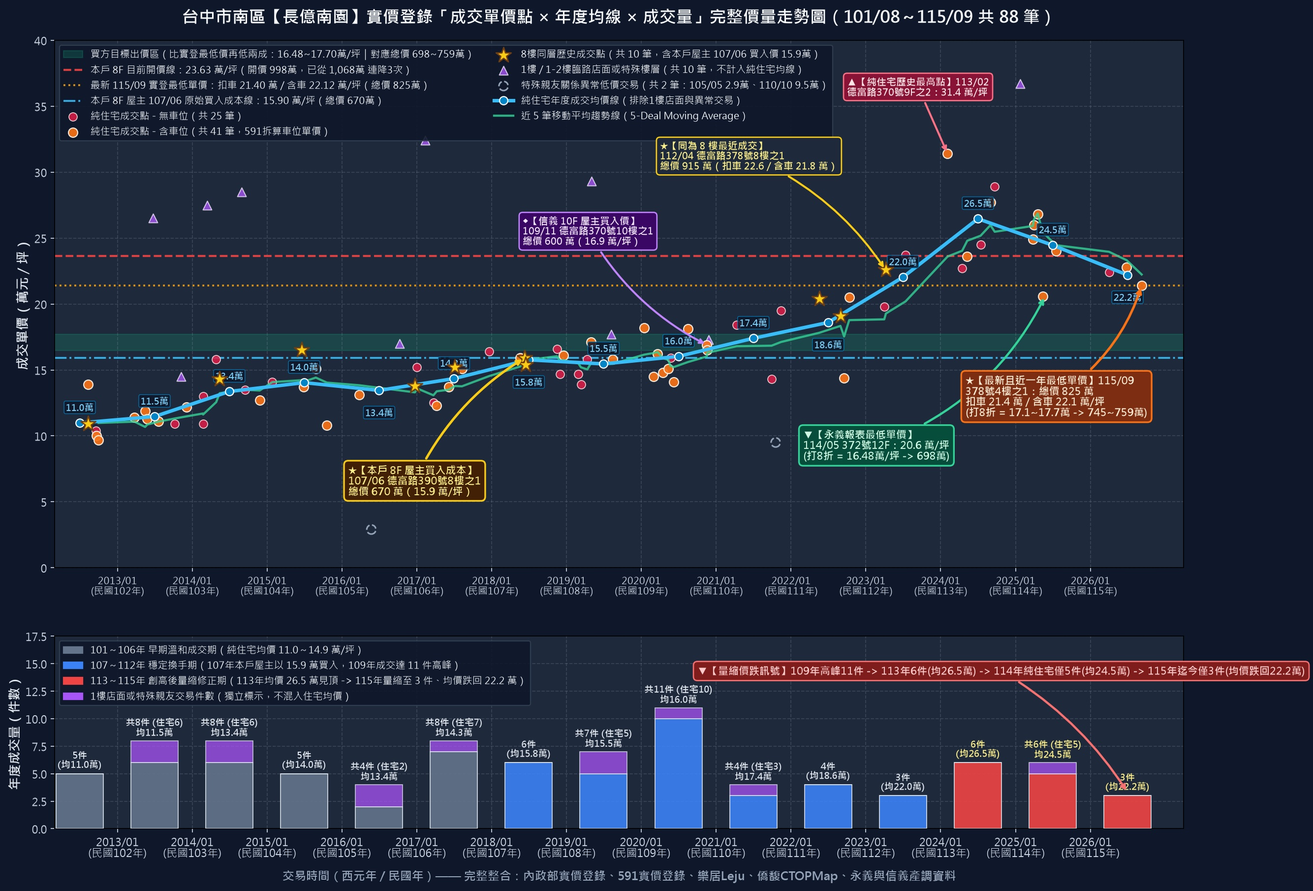
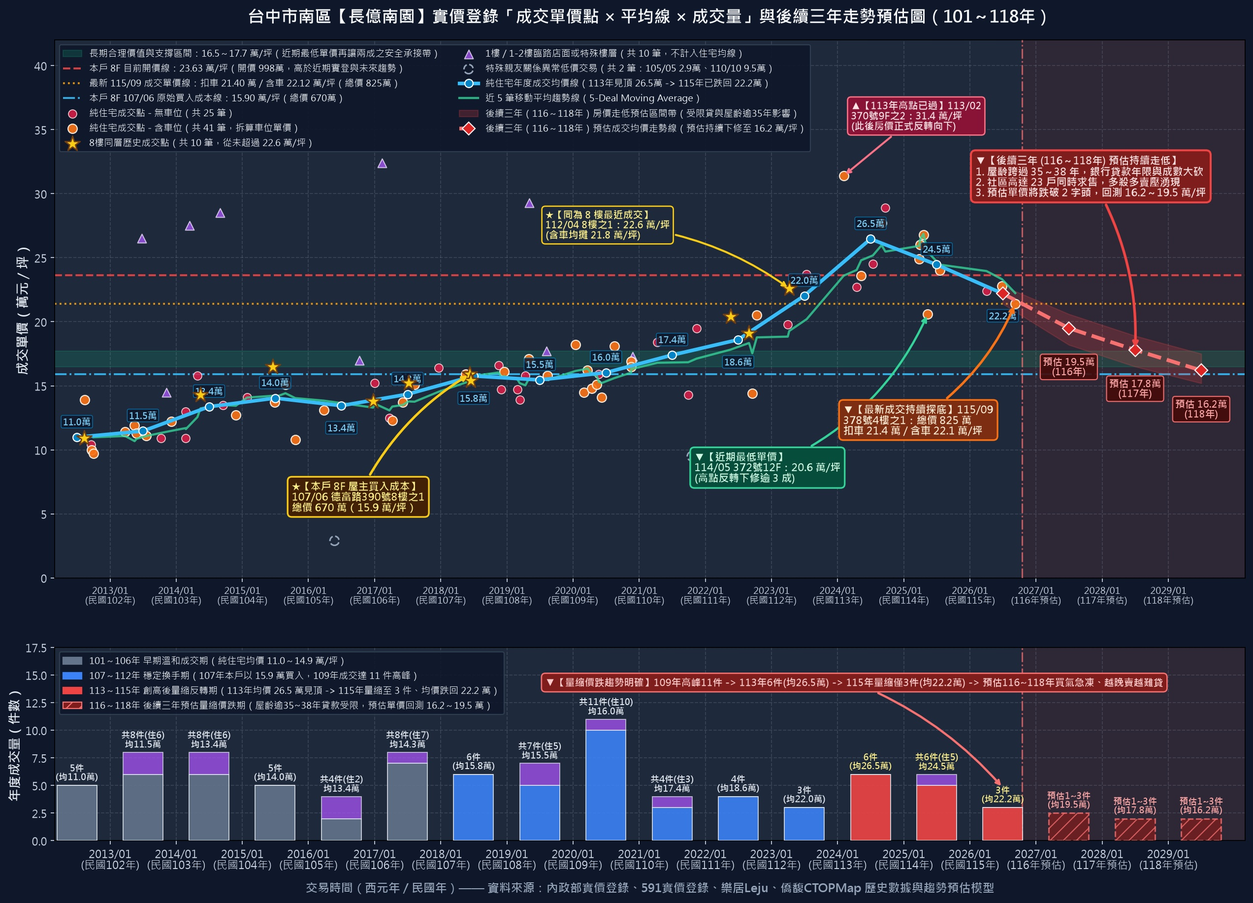
更新長億南園8樓價量走勢圖：移除信義10F標記、改為近期最低單價並新增116~118年後續三年走低預估

diff --git a/長億南園8樓/長億南園_實價登錄價量互動走勢圖.html b/長億南園8樓/長億南園_實價登錄價量互動走勢圖.html
@@ -10,16 +10,16 @@
     <div class="flex flex-wrap items-center justify-between gap-2 mb-2">
       <div>
         <h2 class="text-[var(--foreground)] font-bold text-sm sm:text-base flex items-center gap-2">
-          <span>📊 長億南園｜實價登錄「單價成交點 × 平均線 × 成交量」互動價量走勢圖</span>
-          <span class="text-xs font-normal px-2 py-0.5 rounded bg-emerald-500/15 text-emerald-400 border border-emerald-500/30">共 88 筆 (101/08~115/09)</span>
+          <span>📊 長億南園｜實價登錄「單價成交點 × 平均線 × 成交量」與後續三年走勢預估</span>
+          <span class="text-xs font-normal px-2 py-0.5 rounded bg-rose-500/15 text-rose-400 border border-rose-500/30">113年見頂反轉・預估116~118年續跌</span>
         </h2>
         <p class="text-[var(--muted-foreground)] text-xs mt-0.5">
-          滑鼠移至任一成交點可檢視門牌、樓層、坪數與總價｜★黃星為 8 樓同層成交（含本戶屋主 107/06 買 670 萬 / 15.9 萬）
+          滑鼠移至任一成交點或預估點可檢視詳細數據｜★黃星為 8 樓同層歷史成交｜右側紅區為 116～118 年走低預估
         </p>
       </div>
       <div class="flex flex-wrap items-center gap-1.5 text-xs">
-        <button id="btnMode591" onclick="setPriceMode('u')" class="px-2.5 py-1 rounded-md font-medium bg-sky-600 text-white transition">591拆算車位單價</button>
-        <button id="btnModeSrc" onclick="setPriceMode('su')" class="px-2.5 py-1 rounded-md font-medium border border-[var(--border)] text-[var(--muted-foreground)] hover:text-[var(--foreground)] transition">僑馥/永義含車單價</button>
+        <button id="btnMode591" onclick="setPriceMode('u')" class="px-2.5 py-1 rounded-md font-medium bg-sky-600 text-white transition">拆算車位單價</button>
+        <button id="btnModeSrc" onclick="setPriceMode('su')" class="px-2.5 py-1 rounded-md font-medium border border-[var(--border)] text-[var(--muted-foreground)] hover:text-[var(--foreground)] transition">含車均攤單價</button>
         <span class="text-[var(--border)] mx-0.5">|</span>
         <button id="btnFilterAll" onclick="setFilter('all')" class="px-2 py-1 rounded-md font-medium bg-amber-500/20 text-amber-300 border border-amber-500/40 transition">全部88筆</button>
         <button id="btnFilterRes" onclick="setFilter('res')" class="px-2 py-1 rounded-md font-medium border border-[var(--border)] text-[var(--muted-foreground)] transition">純住宅(76筆)</button>
@@ -32,25 +32,30 @@
       <span class="flex items-center gap-1"><span class="inline-block w-2.5 h-2.5 rounded-full bg-orange-500"></span>住宅含車位</span>
       <span class="flex items-center gap-1"><span class="inline-block w-2.5 h-2.5 rounded-full bg-rose-500"></span>住宅無車位</span>
       <span class="flex items-center gap-1"><span class="inline-block w-2.5 h-2.5 rounded-full bg-yellow-400 ring-2 ring-yellow-500/50"></span>★ 8樓同層成交</span>
-      <span class="flex items-center gap-1"><span class="inline-block w-2.5 h-2.5 bg-purple-500 rotate-45"></span>1F店面(10筆)</span>
-      <span class="flex items-center gap-1"><span class="inline-block w-4 h-0.5 bg-sky-400"></span>年度均價線</span>
-      <span class="flex items-center gap-1"><span class="inline-block w-4 h-0.5 bg-emerald-400"></span>5筆移動均線</span>
-      <span class="flex items-center gap-1"><span class="inline-block w-3 h-2 bg-emerald-500/25 border border-emerald-500/60"></span>目標出價區(16.5~17.7萬)</span>
+      <span class="flex items-center gap-1"><span class="inline-block w-4 h-0.5 bg-sky-400"></span>歷年均價線</span>
+      <span class="flex items-center gap-1"><span class="inline-block w-4 h-0.5 bg-rose-500 border-b border-dashed border-rose-400"></span>116~118年走低預估線</span>
+      <span class="flex items-center gap-1"><span class="inline-block w-3 h-2 bg-emerald-500/25 border border-emerald-500/60"></span>長期合理支撐帶(16.5~17.7萬)</span>
     </div>
 
     <!-- Main Interactive Canvas (Price + Volume Combined) -->
     <div class="relative w-full" style="height: 355px;">
       <canvas id="pvCanvas" class="w-full h-full cursor-crosshair"></canvas>
       <!-- Floating Tooltip -->
-      <div id="tooltip" class="hidden pointer-events-none absolute z-20 bg-slate-900/95 text-slate-100 border border-slate-600 rounded-lg px-3 py-2 text-xs shadow-xl" style="min-width: 225px;"></div>
+      <div id="tooltip" class="hidden pointer-events-none absolute z-20 bg-slate-900/95 text-slate-100 border border-slate-600 rounded-lg px-3 py-2 text-xs shadow-xl" style="min-width: 230px;"></div>
     </div>
   </div>
 
   <script>
-    const RAW_DATA = [{"d": "2012-08-10", "rd": "101-08-10", "ry": 101, "a": "德富路386號 | 8樓", "f": "8", "ar": 49.2, "tp": 536.0, "u": 10.9, "su": 10.9, "p": 1, "sh": 0, "out": 0}, {"d": "2012-08-12", "rd": "101-08-12", "ry": 101, "a": "德富路388號 | 7樓之1", "f": "7", "ar": 29.2, "tp": 405.0, "u": 13.9, "su": 13.9, "p": 1, "sh": 0, "out": 0}, {"d": "2012-09-18", "rd": "101-09-18", "ry": 101, "a": "德富路378號 | 11樓之2", "f": "11", "ar": 34.9, "tp": 362.0, "u": 10.4, "su": 10.4, "p": 0, "sh": 0, "out": 0}, {"d": "2012-09-20", "rd": "101-09-20", "ry": 101, "a": "德富路370號 | 6樓之2", "f": "6", "ar": 40.7, "tp": 408.0, "u": 10.0, "su": 10.0, "p": 1, "sh": 0, "out": 0}, {"d": "2012-10-01", "rd": "101-10-01", "ry": 101, "a": "德富路378號 | 7樓之2", "f": "7", "ar": 37.3, "tp": 360.0, "u": 9.7, "su": 9.7, "p": 1, "sh": 0, "out": 0}, {"d": "2013-03-25", "rd": "102-03-25", "ry": 102, "a": "德富路386號 | 12樓之1", "f": "12", "ar": 51.5, "tp": 585.0, "u": 11.4, "su": 11.4, "p": 1, "sh": 0, "out": 0}, {"d": "2013-05-16", "rd": "102-05-16", "ry": 102, "a": "德富路370號 | 3樓之3", "f": "3", "ar": 48.6, "tp": 580.0, "u": 11.9, "su": 11.9, "p": 1, "sh": 0, "out": 0}, {"d": "2013-05-27", "rd": "102-05-27", "ry": 102, "a": "德富路388號 | 12,13樓之1", "f": "12,13", "ar": 57.4, "tp": 650.0, "u": 11.3, "su": 11.3, "p": 1, "sh": 0, "out": 0}, {"d": "2013-06-25", "rd": "102-06-25", "ry": 102, "a": "高工路131號 | 1,2樓", "f": "1,2", "ar": 43.7, "tp": 1160.0, "u": 26.5, "su": 26.5, "p": 0, "sh": 1, "out": 0}, {"d": "2013-07-20", "rd": "102-07-20", "ry": 102, "a": "德富路388號 | 9樓之1", "f": "9", "ar": 40.5, "tp": 450.0, "u": 11.1, "su": 11.1, "p": 1, "sh": 0, "out": 0}, {"d": "2013-10-08", "rd": "102-10-08", "ry": 102, "a": "德富路368號 | 5樓之1", "f": "5", "ar": 31.7, "tp": 345.0, "u": 10.9, "su": 10.9, "p": 0, "sh": 0, "out": 0}, {"d": "2013-11-08", "rd": "102-11-08", "ry": 102, "a": "大慶街一段81號之3 | 1,2樓", "f": "1,2", "ar": 47.5, "tp": 690.0, "u": 14.5, "su": 14.5, "p": 1, "sh": 1, "out": 0}, {"d": "2013-12-04", "rd": "102-12-04", "ry": 102, "a": "德富路372號 | 5樓之2", "f": "5", "ar": 39.0, "tp": 475.0, "u": 12.2, "su": 12.2, "p": 1, "sh": 0, "out": 0}, {"d": "2014-02-23", "rd": "103-02-23", "ry": 103, "a": "德富路376號 | 13樓之2", "f": "13", "ar": 24.7, "tp": 320.0, "u": 13.0, "su": 13.0, "p": 0, "sh": 0, "out": 0}, {"d": "2014-02-23", "rd": "103-02-23", "ry": 103, "a": "德富路390號 | 11樓之1", "f": "11", "ar": 39.8, "tp": 435.0, "u": 10.9, "su": 10.9, "p": 0, "sh": 0, "out": 0}, {"d": "2014-03-15", "rd": "103-03-15", "ry": 103, "a": "高工路115號 | 1,2樓", "f": "1,2", "ar": 35.9, "tp": 988.0, "u": 27.5, "su": 27.5, "p": 0, "sh": 1, "out": 0}, {"d": "2014-04-28", "rd": "103-04-28", "ry": 103, "a": "德富路368號 | 5樓之1", "f": "5", "ar": 31.7, "tp": 500.0, "u": 15.8, "su": 15.8, "p": 0, "sh": 0, "out": 0}, {"d": "2014-05-15", "rd": "103-05-15", "ry": 103, "a": "德富路378號 | 8樓之2", "f": "8", "ar": 37.3, "tp": 535.0, "u": 14.3, "su": 14.3, "p": 1, "sh": 0, "out": 0}, {"d": "2014-08-30", "rd": "103-08-30", "ry": 103, "a": "高工路133號 | 1,2樓", "f": "1,2", "ar": 35.1, "tp": 1000.0, "u": 28.5, "su": 28.5, "p": 0, "sh": 1, "out": 0}, {"d": "2014-09-16", "rd": "103-09-16", "ry": 103, "a": "德富路370號 | 7樓之1", "f": "7", "ar": 33.4, "tp": 450.0, "u": 13.5, "su": 13.5, "p": 0, "sh": 0, "out": 0}, {"d": "2014-11-26", "rd": "103-11-26", "ry": 103, "a": "德富路382號 | 12,13樓之1", "f": "12,13", "ar": 56.2, "tp": 715.0, "u": 12.7, "su": 12.7, "p": 1, "sh": 0, "out": 0}, {"d": "2015-01-27", "rd": "104-01-27", "ry": 104, "a": "德富路390號 | 11樓之1", "f": "11", "ar": 39.8, "tp": 560.0, "u": 14.1, "su": 14.1, "p": 0, "sh": 0, "out": 0}, {"d": "2015-06-18", "rd": "104-06-18", "ry": 104, "a": "德富路376號 | 8樓之2", "f": "8", "ar": 24.7, "tp": 408.0, "u": 16.5, "su": 16.5, "p": 0, "sh": 0, "out": 0}, {"d": "2015-06-28", "rd": "104-06-28", "ry": 104, "a": "德富路388號 | 13,14樓", "f": "13,14", "ar": 72.0, "tp": 990.0, "u": 13.7, "su": 13.7, "p": 1, "sh": 0, "out": 0}, {"d": "2015-08-27", "rd": "104-08-27", "ry": 104, "a": "德富路388號 | 9樓之1", "f": "9", "ar": 40.5, "tp": 610.0, "u": 15.1, "su": 15.1, "p": 1, "sh": 0, "out": 0}, {"d": "2015-10-20", "rd": "104-10-20", "ry": 104, "a": "德富路370號 | 3樓之1", "f": "3", "ar": 48.3, "tp": 520.0, "u": 10.8, "su": 10.8, "p": 1, "sh": 0, "out": 0}, {"d": "2016-03-27", "rd": "105-03-27", "ry": 105, "a": "德富路370號 | 6樓之2", "f": "6", "ar": 40.7, "tp": 532.0, "u": 13.1, "su": 13.1, "p": 1, "sh": 0, "out": 0}, {"d": "2016-05-24", "rd": "105-05-24", "ry": 105, "a": "德富路390號 | 6樓之2", "f": "6", "ar": 36.3, "tp": 106.0, "u": 2.9, "su": 2.9, "p": 0, "sh": 0, "out": 1}, {"d": "2016-10-08", "rd": "105-10-08", "ry": 105, "a": "大慶街一段81號 | 1,2樓", "f": "1,2", "ar": 41.2, "tp": 700.0, "u": 17.0, "su": 17.0, "p": 0, "sh": 1, "out": 0}, {"d": "2016-12-23", "rd": "105-12-23", "ry": 105, "a": "德富路370號 | 8樓之3", "f": "8", "ar": 36.3, "tp": 500.0, "u": 13.8, "su": 13.8, "p": 0, "sh": 0, "out": 0}, {"d": "2017-01-02", "rd": "106-01-02", "ry": 106, "a": "德富路368號 | 10樓之2", "f": "10", "ar": 31.9, "tp": 485.0, "u": 15.2, "su": 15.2, "p": 0, "sh": 0, "out": 0}, {"d": "2017-02-11", "rd": "106-02-11", "ry": 106, "a": "高工路115號 | 1,2樓", "f": "1,2", "ar": 35.9, "tp": 1165.0, "u": 32.4, "su": 32.4, "p": 0, "sh": 1, "out": 0}, {"d": "2017-03-23", "rd": "106-03-23", "ry": 106, "a": "德富路386號 | 10樓之1", "f": "10", "ar": 46.6, "tp": 580.0, "u": 12.5, "su": 12.5, "p": 0, "sh": 0, "out": 0}, {"d": "2017-04-08", "rd": "106-04-08", "ry": 106, "a": "德富路388號 | 6樓之2", "f": "6", "ar": 40.2, "tp": 515.0, "u": 12.3, "su": 12.8, "p": 1, "sh": 0, "out": 0}, {"d": "2017-06-05", "rd": "106-06-05", "ry": 106, "a": "德富路372號 | 6樓之1", "f": "6", "ar": 39.3, "tp": 538.0, "u": 13.7, "su": 13.7, "p": 1, "sh": 0, "out": 0}, {"d": "2017-07-06", "rd": "106-07-06", "ry": 106, "a": "德富路370號 | 8樓之3", "f": "8", "ar": 36.3, "tp": 550.0, "u": 15.2, "su": 15.2, "p": 0, "sh": 0, "out": 0}, {"d": "2017-08-09", "rd": "106-08-09", "ry": 106, "a": "德富路372號 | 6樓之1", "f": "6", "ar": 39.3, "tp": 600.0, "u": 15.1, "su": 15.3, "p": 1, "sh": 0, "out": 0}, {"d": "2017-12-21", "rd": "106-12-21", "ry": 106, "a": "德富路372號 | 4樓之2", "f": "4", "ar": 36.5, "tp": 600.0, "u": 16.4, "su": 16.4, "p": 0, "sh": 0, "out": 0}, {"d": "2018-05-20", "rd": "107-05-20", "ry": 107, "a": "德富路390號 | 9樓之1", "f": "9", "ar": 42.2, "tp": 670.0, "u": 15.9, "su": 15.9, "p": 1, "sh": 0, "out": 0}, {"d": "2018-06-10", "rd": "107-06-10", "ry": 107, "a": "德富路390號 | 8樓之1 (★本戶屋主買價)", "f": "8", "ar": 42.2, "tp": 670.0, "u": 15.9, "su": 15.9, "p": 1, "sh": 0, "out": 0}, {"d": "2018-06-15", "rd": "107-06-15", "ry": 107, "a": "德富路370號 | 8樓之1", "f": "8", "ar": 35.6, "tp": 550.0, "u": 15.4, "su": 15.4, "p": 1, "sh": 0, "out": 0}, {"d": "2018-11-16", "rd": "107-11-16", "ry": 107, "a": "德富路376號 | 6樓之2", "f": "6", "ar": 24.7, "tp": 410.0, "u": 16.6, "su": 16.6, "p": 0, "sh": 0, "out": 0}, {"d": "2018-11-30", "rd": "107-11-30", "ry": 107, "a": "德富路388號 | 11樓之2", "f": "11", "ar": 38.4, "tp": 565.0, "u": 14.7, "su": 14.7, "p": 0, "sh": 0, "out": 0}, {"d": "2018-12-18", "rd": "107-12-18", "ry": 107, "a": "德富路390號 | 7樓之1", "f": "7", "ar": 44.4, "tp": 692.0, "u": 16.1, "su": 15.6, "p": 1, "sh": 0, "out": 0}, {"d": "2019-02-28", "rd": "108-02-28", "ry": 108, "a": "德富路382號 | 11樓之2", "f": "11", "ar": 37.4, "tp": 550.0, "u": 14.7, "su": 14.7, "p": 0, "sh": 0, "out": 0}, {"d": "2019-03-13", "rd": "108-03-13", "ry": 108, "a": "德富路380號 | 2樓之1", "f": "2", "ar": 36.7, "tp": 510.0, "u": 13.9, "su": 13.9, "p": 0, "sh": 0, "out": 0}, {"d": "2019-04-13", "rd": "108-04-13", "ry": 108, "a": "德富路388號 | 4樓之2", "f": "4", "ar": 37.9, "tp": 600.0, "u": 15.8, "su": 15.8, "p": 0, "sh": 0, "out": 0}, {"d": "2019-05-01", "rd": "108-05-01", "ry": 108, "a": "德富路370號 | 5樓之1", "f": "5", "ar": 35.6, "tp": 608.0, "u": 17.1, "su": 17.1, "p": 1, "sh": 0, "out": 0}, {"d": "2019-05-04", "rd": "108-05-04", "ry": 108, "a": "高工路127號 | 1,2樓", "f": "1,2", "ar": 43.2, "tp": 1268.0, "u": 29.3, "su": 29.3, "p": 0, "sh": 1, "out": 0}, {"d": "2019-08-07", "rd": "108-08-07", "ry": 108, "a": "大慶街一段81號之3 | 1,2樓", "f": "1,2", "ar": 47.5, "tp": 838.0, "u": 17.7, "su": 17.7, "p": 1, "sh": 1, "out": 0}, {"d": "2019-08-14", "rd": "108-08-14", "ry": 108, "a": "德富路368號 | 9樓之1", "f": "9", "ar": 34.1, "tp": 540.0, "u": 15.8, "su": 15.8, "p": 1, "sh": 0, "out": 0}, {"d": "2020-01-15", "rd": "109-01-15", "ry": 109, "a": "德富路388號 | 9樓之1", "f": "9", "ar": 40.5, "tp": 680.0, "u": 18.2, "su": 16.8, "p": 1, "sh": 0, "out": 0}, {"d": "2020-02-29", "rd": "109-02-29", "ry": 109, "a": "德富路370號 | 12樓之3", "f": "12", "ar": 38.7, "tp": 560.0, "u": 14.5, "su": 14.5, "p": 1, "sh": 0, "out": 0}, {"d": "2020-03-21", "rd": "109-03-21", "ry": 109, "a": "德富路382號 | 3樓之2", "f": "3", "ar": 40.1, "tp": 650.0, "u": 16.2, "su": 16.2, "p": 1, "sh": 0, "out": 0}, {"d": "2020-04-15", "rd": "109-04-15", "ry": 109, "a": "德富路386號 | 7樓之1", "f": "7", "ar": 49.0, "tp": 725.0, "u": 14.8, "su": 14.8, "p": 1, "sh": 0, "out": 0}, {"d": "2020-05-12", "rd": "109-05-12", "ry": 109, "a": "德富路380號 | 12,13樓之2", "f": "12,13", "ar": 63.4, "tp": 960.0, "u": 15.1, "su": 15.1, "p": 1, "sh": 0, "out": 0}, {"d": "2020-05-23", "rd": "109-05-23", "ry": 109, "a": "德富路370號 | 10樓之2", "f": "10", "ar": 33.7, "tp": 536.0, "u": 15.9, "su": 15.9, "p": 0, "sh": 0, "out": 0}, {"d": "2020-06-08", "rd": "109-06-08", "ry": 109, "a": "德富路378號 | 12,13樓之1", "f": "12,13", "ar": 56.7, "tp": 799.0, "u": 14.1, "su": 14.1, "p": 1, "sh": 0, "out": 0}, {"d": "2020-08-16", "rd": "109-08-16", "ry": 109, "a": "德富路370號 | 12樓之3", "f": "12", "ar": 38.7, "tp": 700.0, "u": 18.1, "su": 18.1, "p": 1, "sh": 0, "out": 0}, {"d": "2020-11-16", "rd": "109-11-16", "ry": 109, "a": "德富路370號 | 10樓之1 (◆信義10F屋主買價)", "f": "10", "ar": 35.6, "tp": 600.0, "u": 16.9, "su": 16.9, "p": 1, "sh": 0, "out": 0}, {"d": "2020-11-18", "rd": "109-11-18", "ry": 109, "a": "德富路378號 | 12,13樓之1", "f": "12,13", "ar": 56.7, "tp": 936.0, "u": 16.5, "su": 16.5, "p": 1, "sh": 0, "out": 0}, {"d": "2020-11-25", "rd": "109-11-25", "ry": 109, "a": "德富路378號 | 1樓", "f": "1", "ar": 33.9, "tp": 585.0, "u": 17.3, "su": 17.3, "p": 0, "sh": 1, "out": 0}, {"d": "2021-04-11", "rd": "110-04-11", "ry": 110, "a": "德富路370號 | 7樓之1", "f": "7", "ar": 33.4, "tp": 615.0, "u": 18.4, "su": 18.4, "p": 0, "sh": 0, "out": 0}, {"d": "2021-09-28", "rd": "110-09-28", "ry": 110, "a": "德富路380號 | 2樓之1", "f": "2", "ar": 36.7, "tp": 525.0, "u": 14.3, "su": 14.3, "p": 0, "sh": 0, "out": 0}, {"d": "2021-10-18", "rd": "110-10-18", "ry": 110, "a": "德富路368號 | 2樓", "f": "2", "ar": 36.9, "tp": 350.0, "u": 9.5, "su": 9.5, "p": 0, "sh": 0, "out": 1}, {"d": "2021-11-13", "rd": "110-11-13", "ry": 110, "a": "德富路368號 | 10樓之2", "f": "10", "ar": 31.9, "tp": 622.0, "u": 19.5, "su": 19.5, "p": 0, "sh": 0, "out": 0}, {"d": "2022-05-19", "rd": "111-05-19", "ry": 111, "a": "德富路372號 | 8樓之2", "f": "8", "ar": 36.5, "tp": 745.0, "u": 20.4, "su": 20.4, "p": 0, "sh": 0, "out": 0}, {"d": "2022-08-30", "rd": "111-08-30", "ry": 111, "a": "德富路382號 | 8樓之1", "f": "8", "ar": 36.6, "tp": 700.0, "u": 19.1, "su": 19.1, "p": 0, "sh": 0, "out": 0}, {"d": "2022-09-17", "rd": "111-09-17", "ry": 111, "a": "德富路376號 | 3樓之1", "f": "3", "ar": 65.0, "tp": 938.0, "u": 14.4, "su": 14.4, "p": 1, "sh": 0, "out": 0}, {"d": "2022-10-12", "rd": "111-10-12", "ry": 111, "a": "德富路382號 | 12,13樓之1", "f": "12,13", "ar": 56.2, "tp": 1150.0, "u": 20.5, "su": 20.5, "p": 1, "sh": 0, "out": 0}, {"d": "2023-04-01", "rd": "112-04-01", "ry": 112, "a": "德富路368號 | 5樓之1", "f": "5", "ar": 31.7, "tp": 628.0, "u": 19.8, "su": 19.8, "p": 0, "sh": 0, "out": 0}, {"d": "2023-04-09", "rd": "112-04-09", "ry": 112, "a": "德富路382號 | 8樓之1", "f": "8", "ar": 36.6, "tp": 827.0, "u": 22.6, "su": 22.6, "p": 0, "sh": 0, "out": 0}, {"d": "2023-07-14", "rd": "112-07-14", "ry": 112, "a": "德富路368號 | 5樓之1", "f": "5", "ar": 31.7, "tp": 750.0, "u": 23.7, "su": 23.7, "p": 0, "sh": 0, "out": 0}, {"d": "2024-02-04", "rd": "113-02-04", "ry": 113, "a": "德富路370號 | 9樓之2 (▲純住宅最高單價)", "f": "9", "ar": 36.1, "tp": 1133.0, "u": 31.4, "su": 31.4, "p": 1, "sh": 0, "out": 0}, {"d": "2024-04-15", "rd": "113-04-15", "ry": 113, "a": "德富路382號 | 7樓之2", "f": "7", "ar": 37.4, "tp": 851.0, "u": 22.7, "su": 22.7, "p": 0, "sh": 0, "out": 0}, {"d": "2024-05-10", "rd": "113-05-10", "ry": 113, "a": "德富路378號 | 3樓之2", "f": "3", "ar": 37.3, "tp": 880.0, "u": 23.6, "su": 23.6, "p": 1, "sh": 0, "out": 0}, {"d": "2024-07-14", "rd": "113-07-14", "ry": 113, "a": "德富路390號 | 5樓之2", "f": "5", "ar": 36.3, "tp": 890.0, "u": 24.5, "su": 24.5, "p": 0, "sh": 0, "out": 0}, {"d": "2024-08-31", "rd": "113-08-31", "ry": 113, "a": "德富路388號 | 11樓之1", "f": "11", "ar": 38.3, "tp": 1060.0, "u": 27.7, "su": 27.7, "p": 1, "sh": 0, "out": 0}, {"d": "2024-09-21", "rd": "113-09-21", "ry": 113, "a": "德富路382號 | 7樓之2", "f": "7", "ar": 37.4, "tp": 1080.0, "u": 28.9, "su": 28.9, "p": 0, "sh": 0, "out": 0}, {"d": "2025-01-24", "rd": "114-01-24", "ry": 114, "a": "高工路131號 | 1,2樓 (店面)", "f": "1,2", "ar": 43.7, "tp": 1606.0, "u": 36.7, "su": 36.7, "p": 0, "sh": 1, "out": 0}, {"d": "2025-03-26", "rd": "114-03-26", "ry": 114, "a": "德富路370號 | 5樓之2", "f": "5", "ar": 36.1, "tp": 900.0, "u": 24.9, "su": 24.9, "p": 1, "sh": 0, "out": 0}, {"d": "2025-03-31", "rd": "114-03-31", "ry": 114, "a": "德富路378號 | 5樓之2", "f": "5", "ar": 37.3, "tp": 969.0, "u": 26.0, "su": 26.0, "p": 1, "sh": 0, "out": 0}, {"d": "2025-04-19", "rd": "114-04-19", "ry": 114, "a": "德富路382號 | 10樓之1", "f": "10", "ar": 38.8, "tp": 1040.0, "u": 26.8, "su": 26.8, "p": 1, "sh": 0, "out": 0}, {"d": "2025-05-13", "rd": "114-05-13", "ry": 114, "a": "德富路372號 | 12,13樓之1 (▼永義表最低單價)", "f": "12,13", "ar": 56.8, "tp": 1170.0, "u": 20.6, "su": 20.6, "p": 1, "sh": 0, "out": 0}, {"d": "2025-07-18", "rd": "114-07-18", "ry": 114, "a": "德富路386號 | 7樓之2", "f": "7", "ar": 49.2, "tp": 1200.0, "u": 24.0, "su": 24.4, "p": 1, "sh": 0, "out": 0}, {"d": "2026-04-02", "rd": "115-04-02", "ry": 115, "a": "德富路378號 | 9樓之2", "f": "9", "ar": 34.9, "tp": 782.0, "u": 22.4, "su": 22.4, "p": 0, "sh": 0, "out": 0}, {"d": "2026-06-27", "rd": "115-06-27", "ry": 115, "a": "德富路370號 | 6樓之2", "f": "6", "ar": 40.7, "tp": 950.0, "u": 22.8, "su": 23.3, "p": 1, "sh": 0, "out": 0}, {"d": "2026-09-08", "rd": "115-09-08", "ry": 115, "a": "德富路378號 | 4樓之1 (🔥最新且近一年最低價)", "f": "4", "ar": 37.3, "tp": 825.0, "u": 21.4, "su": 22.1, "p": 1, "sh": 0, "out": 0}];
+    const RAW_DATA = [{"d": "2012-08-10", "rd": "101-08-10", "ry": 101, "a": "德富路386號 | 8樓", "f": "8", "ar": 49.2, "tp": 536.0, "u": 10.9, "su": 10.9, "p": 1, "sh": 0, "out": 0}, {"d": "2012-08-12", "rd": "101-08-12", "ry": 101, "a": "德富路388號 | 7樓之1", "f": "7", "ar": 29.2, "tp": 405.0, "u": 13.9, "su": 13.9, "p": 1, "sh": 0, "out": 0}, {"d": "2012-09-18", "rd": "101-09-18", "ry": 101, "a": "德富路378號 | 11樓之2", "f": "11", "ar": 34.9, "tp": 362.0, "u": 10.4, "su": 10.4, "p": 0, "sh": 0, "out": 0}, {"d": "2012-09-20", "rd": "101-09-20", "ry": 101, "a": "德富路370號 | 6樓之2", "f": "6", "ar": 40.7, "tp": 408.0, "u": 10.0, "su": 10.0, "p": 1, "sh": 0, "out": 0}, {"d": "2012-10-01", "rd": "101-10-01", "ry": 101, "a": "德富路378號 | 7樓之2", "f": "7", "ar": 37.3, "tp": 360.0, "u": 9.7, "su": 9.7, "p": 1, "sh": 0, "out": 0}, {"d": "2013-03-25", "rd": "102-03-25", "ry": 102, "a": "德富路386號 | 12樓之1", "f": "12", "ar": 51.5, "tp": 585.0, "u": 11.4, "su": 11.4, "p": 1, "sh": 0, "out": 0}, {"d": "2013-05-16", "rd": "102-05-16", "ry": 102, "a": "德富路370號 | 3樓之3", "f": "3", "ar": 48.6, "tp": 580.0, "u": 11.9, "su": 11.9, "p": 1, "sh": 0, "out": 0}, {"d": "2013-05-27", "rd": "102-05-27", "ry": 102, "a": "德富路388號 | 12,13樓之1", "f": "12,13", "ar": 57.4, "tp": 650.0, "u": 11.3, "su": 11.3, "p": 1, "sh": 0, "out": 0}, {"d": "2013-06-25", "rd": "102-06-25", "ry": 102, "a": "高工路131號 | 1,2樓", "f": "1,2", "ar": 43.7, "tp": 1160.0, "u": 26.5, "su": 26.5, "p": 0, "sh": 1, "out": 0}, {"d": "2013-07-20", "rd": "102-07-20", "ry": 102, "a": "德富路388號 | 9樓之1", "f": "9", "ar": 40.5, "tp": 450.0, "u": 11.1, "su": 11.1, "p": 1, "sh": 0, "out": 0}, {"d": "2013-10-08", "rd": "102-10-08", "ry": 102, "a": "德富路368號 | 5樓之1", "f": "5", "ar": 31.7, "tp": 345.0, "u": 10.9, "su": 10.9, "p": 0, "sh": 0, "out": 0}, {"d": "2013-11-08", "rd": "102-11-08", "ry": 102, "a": "大慶街一段81號之3 | 1,2樓", "f": "1,2", "ar": 47.5, "tp": 690.0, "u": 14.5, "su": 14.5, "p": 1, "sh": 1, "out": 0}, {"d": "2013-12-04", "rd": "102-12-04", "ry": 102, "a": "德富路372號 | 5樓之2", "f": "5", "ar": 39.0, "tp": 475.0, "u": 12.2, "su": 12.2, "p": 1, "sh": 0, "out": 0}, {"d": "2014-02-23", "rd": "103-02-23", "ry": 103, "a": "德富路376號 | 13樓之2", "f": "13", "ar": 24.7, "tp": 320.0, "u": 13.0, "su": 13.0, "p": 0, "sh": 0, "out": 0}, {"d": "2014-02-23", "rd": "103-02-23", "ry": 103, "a": "德富路390號 | 11樓之1", "f": "11", "ar": 39.8, "tp": 435.0, "u": 10.9, "su": 10.9, "p": 0, "sh": 0, "out": 0}, {"d": "2014-03-15", "rd": "103-03-15", "ry": 103, "a": "高工路115號 | 1,2樓", "f": "1,2", "ar": 35.9, "tp": 988.0, "u": 27.5, "su": 27.5, "p": 0, "sh": 1, "out": 0}, {"d": "2014-04-28", "rd": "103-04-28", "ry": 103, "a": "德富路368號 | 5樓之1", "f": "5", "ar": 31.7, "tp": 500.0, "u": 15.8, "su": 15.8, "p": 0, "sh": 0, "out": 0}, {"d": "2014-05-15", "rd": "103-05-15", "ry": 103, "a": "德富路378號 | 8樓之2", "f": "8", "ar": 37.3, "tp": 535.0, "u": 14.3, "su": 14.3, "p": 1, "sh": 0, "out": 0}, {"d": "2014-08-30", "rd": "103-08-30", "ry": 103, "a": "高工路133號 | 1,2樓", "f": "1,2", "ar": 35.1, "tp": 1000.0, "u": 28.5, "su": 28.5, "p": 0, "sh": 1, "out": 0}, {"d": "2014-09-16", "rd": "103-09-16", "ry": 103, "a": "德富路370號 | 7樓之1", "f": "7", "ar": 33.4, "tp": 450.0, "u": 13.5, "su": 13.5, "p": 0, "sh": 0, "out": 0}, {"d": "2014-11-26", "rd": "103-11-26", "ry": 103, "a": "德富路382號 | 12,13樓之1", "f": "12,13", "ar": 56.2, "tp": 715.0, "u": 12.7, "su": 12.7, "p": 1, "sh": 0, "out": 0}, {"d": "2015-01-27", "rd": "104-01-27", "ry": 104, "a": "德富路390號 | 11樓之1", "f": "11", "ar": 39.8, "tp": 560.0, "u": 14.1, "su": 14.1, "p": 0, "sh": 0, "out": 0}, {"d": "2015-06-18", "rd": "104-06-18", "ry": 104, "a": "德富路376號 | 8樓之2", "f": "8", "ar": 24.7, "tp": 408.0, "u": 16.5, "su": 16.5, "p": 0, "sh": 0, "out": 0}, {"d": "2015-06-28", "rd": "104-06-28", "ry": 104, "a": "德富路388號 | 13,14樓", "f": "13,14", "ar": 72.0, "tp": 990.0, "u": 13.7, "su": 13.7, "p": 1, "sh": 0, "out": 0}, {"d": "2015-08-27", "rd": "104-08-27", "ry": 104, "a": "德富路388號 | 9樓之1", "f": "9", "ar": 40.5, "tp": 610.0, "u": 15.1, "su": 15.1, "p": 1, "sh": 0, "out": 0}, {"d": "2015-10-20", "rd": "104-10-20", "ry": 104, "a": "德富路370號 | 3樓之1", "f": "3", "ar": 48.3, "tp": 520.0, "u": 10.8, "su": 10.8, "p": 1, "sh": 0, "out": 0}, {"d": "2016-03-27", "rd": "105-03-27", "ry": 105, "a": "德富路370號 | 6樓之2", "f": "6", "ar": 40.7, "tp": 532.0, "u": 13.1, "su": 13.1, "p": 1, "sh": 0, "out": 0}, {"d": "2016-05-24", "rd": "105-05-24", "ry": 105, "a": "德富路390號 | 6樓之2", "f": "6", "ar": 36.3, "tp": 106.0, "u": 2.9, "su": 2.9, "p": 0, "sh": 0, "out": 1}, {"d": "2016-10-08", "rd": "105-10-08", "ry": 105, "a": "大慶街一段81號 | 1,2樓", "f": "1,2", "ar": 41.2, "tp": 700.0, "u": 17.0, "su": 17.0, "p": 0, "sh": 1, "out": 0}, {"d": "2016-12-23", "rd": "105-12-23", "ry": 105, "a": "德富路370號 | 8樓之3", "f": "8", "ar": 36.3, "tp": 500.0, "u": 13.8, "su": 13.8, "p": 0, "sh": 0, "out": 0}, {"d": "2017-01-02", "rd": "106-01-02", "ry": 106, "a": "德富路368號 | 10樓之2", "f": "10", "ar": 31.9, "tp": 485.0, "u": 15.2, "su": 15.2, "p": 0, "sh": 0, "out": 0}, {"d": "2017-02-11", "rd": "106-02-11", "ry": 106, "a": "高工路115號 | 1,2樓", "f": "1,2", "ar": 35.9, "tp": 1165.0, "u": 32.4, "su": 32.4, "p": 0, "sh": 1, "out": 0}, {"d": "2017-03-23", "rd": "106-03-23", "ry": 106, "a": "德富路386號 | 10樓之1", "f": "10", "ar": 46.6, "tp": 580.0, "u": 12.5, "su": 12.5, "p": 0, "sh": 0, "out": 0}, {"d": "2017-04-08", "rd": "106-04-08", "ry": 106, "a": "德富路388號 | 6樓之2", "f": "6", "ar": 40.2, "tp": 515.0, "u": 12.3, "su": 12.8, "p": 1, "sh": 0, "out": 0}, {"d": "2017-06-05", "rd": "106-06-05", "ry": 106, "a": "德富路372號 | 6樓之1", "f": "6", "ar": 39.3, "tp": 538.0, "u": 13.7, "su": 13.7, "p": 1, "sh": 0, "out": 0}, {"d": "2017-07-06", "rd": "106-07-06", "ry": 106, "a": "德富路370號 | 8樓之3", "f": "8", "ar": 36.3, "tp": 550.0, "u": 15.2, "su": 15.2, "p": 0, "sh": 0, "out": 0}, {"d": "2017-08-09", "rd": "106-08-09", "ry": 106, "a": "德富路372號 | 6樓之1", "f": "6", "ar": 39.3, "tp": 600.0, "u": 15.1, "su": 15.3, "p": 1, "sh": 0, "out": 0}, {"d": "2017-12-21", "rd": "106-12-21", "ry": 106, "a": "德富路372號 | 4樓之2", "f": "4", "ar": 36.5, "tp": 600.0, "u": 16.4, "su": 16.4, "p": 0, "sh": 0, "out": 0}, {"d": "2018-05-20", "rd": "107-05-20", "ry": 107, "a": "德富路390號 | 9樓之1", "f": "9", "ar": 42.2, "tp": 670.0, "u": 15.9, "su": 15.9, "p": 1, "sh": 0, "out": 0}, {"d": "2018-06-10", "rd": "107-06-10", "ry": 107, "a": "德富路390號 | 8樓之1 (★本戶107年取得價)", "f": "8", "ar": 42.2, "tp": 670.0, "u": 15.9, "su": 15.9, "p": 1, "sh": 0, "out": 0}, {"d": "2018-06-15", "rd": "107-06-15", "ry": 107, "a": "德富路370號 | 8樓之1", "f": "8", "ar": 35.6, "tp": 550.0, "u": 15.4, "su": 15.4, "p": 1, "sh": 0, "out": 0}, {"d": "2018-11-16", "rd": "107-11-16", "ry": 107, "a": "德富路376號 | 6樓之2", "f": "6", "ar": 24.7, "tp": 410.0, "u": 16.6, "su": 16.6, "p": 0, "sh": 0, "out": 0}, {"d": "2018-11-30", "rd": "107-11-30", "ry": 107, "a": "德富路388號 | 11樓之2", "f": "11", "ar": 38.4, "tp": 565.0, "u": 14.7, "su": 14.7, "p": 0, "sh": 0, "out": 0}, {"d": "2018-12-18", "rd": "107-12-18", "ry": 107, "a": "德富路390號 | 7樓之1", "f": "7", "ar": 44.4, "tp": 692.0, "u": 16.1, "su": 15.6, "p": 1, "sh": 0, "out": 0}, {"d": "2019-02-28", "rd": "108-02-28", "ry": 108, "a": "德富路382號 | 11樓之2", "f": "11", "ar": 37.4, "tp": 550.0, "u": 14.7, "su": 14.7, "p": 0, "sh": 0, "out": 0}, {"d": "2019-03-13", "rd": "108-03-13", "ry": 108, "a": "德富路380號 | 2樓之1", "f": "2", "ar": 36.7, "tp": 510.0, "u": 13.9, "su": 13.9, "p": 0, "sh": 0, "out": 0}, {"d": "2019-04-13", "rd": "108-04-13", "ry": 108, "a": "德富路388號 | 4樓之2", "f": "4", "ar": 37.9, "tp": 600.0, "u": 15.8, "su": 15.8, "p": 0, "sh": 0, "out": 0}, {"d": "2019-05-01", "rd": "108-05-01", "ry": 108, "a": "德富路370號 | 5樓之1", "f": "5", "ar": 35.6, "tp": 608.0, "u": 17.1, "su": 17.1, "p": 1, "sh": 0, "out": 0}, {"d": "2019-05-04", "rd": "108-05-04", "ry": 108, "a": "高工路127號 | 1,2樓", "f": "1,2", "ar": 43.2, "tp": 1268.0, "u": 29.3, "su": 29.3, "p": 0, "sh": 1, "out": 0}, {"d": "2019-08-07", "rd": "108-08-07", "ry": 108, "a": "大慶街一段81號之3 | 1,2樓", "f": "1,2", "ar": 47.5, "tp": 838.0, "u": 17.7, "su": 17.7, "p": 1, "sh": 1, "out": 0}, {"d": "2019-08-14", "rd": "108-08-14", "ry": 108, "a": "德富路368號 | 9樓之1", "f": "9", "ar": 34.1, "tp": 540.0, "u": 15.8, "su": 15.8, "p": 1, "sh": 0, "out": 0}, {"d": "2020-01-15", "rd": "109-01-15", "ry": 109, "a": "德富路388號 | 9樓之1", "f": "9", "ar": 40.5, "tp": 680.0, "u": 18.2, "su": 16.8, "p": 1, "sh": 0, "out": 0}, {"d": "2020-02-29", "rd": "109-02-29", "ry": 109, "a": "德富路370號 | 12樓之3", "f": "12", "ar": 38.7, "tp": 560.0, "u": 14.5, "su": 14.5, "p": 1, "sh": 0, "out": 0}, {"d": "2020-03-21", "rd": "109-03-21", "ry": 109, "a": "德富路382號 | 3樓之2", "f": "3", "ar": 40.1, "tp": 650.0, "u": 16.2, "su": 16.2, "p": 1, "sh": 0, "out": 0}, {"d": "2020-04-15", "rd": "109-04-15", "ry": 109, "a": "德富路386號 | 7樓之1", "f": "7", "ar": 49.0, "tp": 725.0, "u": 14.8, "su": 14.8, "p": 1, "sh": 0, "out": 0}, {"d": "2020-05-12", "rd": "109-05-12", "ry": 109, "a": "德富路380號 | 12,13樓之2", "f": "12,13", "ar": 63.4, "tp": 960.0, "u": 15.1, "su": 15.1, "p": 1, "sh": 0, "out": 0}, {"d": "2020-05-23", "rd": "109-05-23", "ry": 109, "a": "德富路370號 | 10樓之2", "f": "10", "ar": 33.7, "tp": 536.0, "u": 15.9, "su": 15.9, "p": 0, "sh": 0, "out": 0}, {"d": "2020-06-08", "rd": "109-06-08", "ry": 109, "a": "德富路378號 | 12,13樓之1", "f": "12,13", "ar": 56.7, "tp": 799.0, "u": 14.1, "su": 14.1, "p": 1, "sh": 0, "out": 0}, {"d": "2020-08-16", "rd": "109-08-16", "ry": 109, "a": "德富路370號 | 12樓之3", "f": "12", "ar": 38.7, "tp": 700.0, "u": 18.1, "su": 18.1, "p": 1, "sh": 0, "out": 0}, {"d": "2020-11-16", "rd": "109-11-16", "ry": 109, "a": "德富路370號 | 10樓之1", "f": "10", "ar": 35.6, "tp": 600.0, "u": 16.9, "su": 16.9, "p": 1, "sh": 0, "out": 0}, {"d": "2020-11-18", "rd": "109-11-18", "ry": 109, "a": "德富路378號 | 12,13樓之1", "f": "12,13", "ar": 56.7, "tp": 936.0, "u": 16.5, "su": 16.5, "p": 1, "sh": 0, "out": 0}, {"d": "2020-11-25", "rd": "109-11-25", "ry": 109, "a": "德富路378號 | 1樓", "f": "1", "ar": 33.9, "tp": 585.0, "u": 17.3, "su": 17.3, "p": 0, "sh": 1, "out": 0}, {"d": "2021-04-11", "rd": "110-04-11", "ry": 110, "a": "德富路370號 | 7樓之1", "f": "7", "ar": 33.4, "tp": 615.0, "u": 18.4, "su": 18.4, "p": 0, "sh": 0, "out": 0}, {"d": "2021-09-28", "rd": "110-09-28", "ry": 110, "a": "德富路380號 | 2樓之1", "f": "2", "ar": 36.7, "tp": 525.0, "u": 14.3, "su": 14.3, "p": 0, "sh": 0, "out": 0}, {"d": "2021-10-18", "rd": "110-10-18", "ry": 110, "a": "德富路368號 | 2樓", "f": "2", "ar": 36.9, "tp": 350.0, "u": 9.5, "su": 9.5, "p": 0, "sh": 0, "out": 1}, {"d": "2021-11-13", "rd": "110-11-13", "ry": 110, "a": "德富路368號 | 10樓之2", "f": "10", "ar": 31.9, "tp": 622.0, "u": 19.5, "su": 19.5, "p": 0, "sh": 0, "out": 0}, {"d": "2022-05-19", "rd": "111-05-19", "ry": 111, "a": "德富路372號 | 8樓之2", "f": "8", "ar": 36.5, "tp": 745.0, "u": 20.4, "su": 20.4, "p": 0, "sh": 0, "out": 0}, {"d": "2022-08-30", "rd": "111-08-30", "ry": 111, "a": "德富路382號 | 8樓之1", "f": "8", "ar": 36.6, "tp": 700.0, "u": 19.1, "su": 19.1, "p": 0, "sh": 0, "out": 0}, {"d": "2022-09-17", "rd": "111-09-17", "ry": 111, "a": "德富路376號 | 3樓之1", "f": "3", "ar": 65.0, "tp": 938.0, "u": 14.4, "su": 14.4, "p": 1, "sh": 0, "out": 0}, {"d": "2022-10-12", "rd": "111-10-12", "ry": 111, "a": "德富路382號 | 12,13樓之1", "f": "12,13", "ar": 56.2, "tp": 1150.0, "u": 20.5, "su": 20.5, "p": 1, "sh": 0, "out": 0}, {"d": "2023-04-01", "rd": "112-04-01", "ry": 112, "a": "德富路368號 | 5樓之1", "f": "5", "ar": 31.7, "tp": 628.0, "u": 19.8, "su": 19.8, "p": 0, "sh": 0, "out": 0}, {"d": "2023-04-09", "rd": "112-04-09", "ry": 112, "a": "德富路382號 | 8樓之1", "f": "8", "ar": 36.6, "tp": 827.0, "u": 22.6, "su": 22.6, "p": 0, "sh": 0, "out": 0}, {"d": "2023-07-14", "rd": "112-07-14", "ry": 112, "a": "德富路368號 | 5樓之1", "f": "5", "ar": 31.7, "tp": 750.0, "u": 23.7, "su": 23.7, "p": 0, "sh": 0, "out": 0}, {"d": "2024-02-04", "rd": "113-02-04", "ry": 113, "a": "德富路370號 | 9樓之2 (▲113年高點已過)", "f": "9", "ar": 36.1, "tp": 1133.0, "u": 31.4, "su": 31.4, "p": 1, "sh": 0, "out": 0}, {"d": "2024-04-15", "rd": "113-04-15", "ry": 113, "a": "德富路382號 | 7樓之2", "f": "7", "ar": 37.4, "tp": 851.0, "u": 22.7, "su": 22.7, "p": 0, "sh": 0, "out": 0}, {"d": "2024-05-10", "rd": "113-05-10", "ry": 113, "a": "德富路378號 | 3樓之2", "f": "3", "ar": 37.3, "tp": 880.0, "u": 23.6, "su": 23.6, "p": 1, "sh": 0, "out": 0}, {"d": "2024-07-14", "rd": "113-07-14", "ry": 113, "a": "德富路390號 | 5樓之2", "f": "5", "ar": 36.3, "tp": 890.0, "u": 24.5, "su": 24.5, "p": 0, "sh": 0, "out": 0}, {"d": "2024-08-31", "rd": "113-08-31", "ry": 113, "a": "德富路388號 | 11樓之1", "f": "11", "ar": 38.3, "tp": 1060.0, "u": 27.7, "su": 27.7, "p": 1, "sh": 0, "out": 0}, {"d": "2024-09-21", "rd": "113-09-21", "ry": 113, "a": "德富路382號 | 7樓之2", "f": "7", "ar": 37.4, "tp": 1080.0, "u": 28.9, "su": 28.9, "p": 0, "sh": 0, "out": 0}, {"d": "2025-01-24", "rd": "114-01-24", "ry": 114, "a": "高工路131號 | 1,2樓 (店面)", "f": "1,2", "ar": 43.7, "tp": 1606.0, "u": 36.7, "su": 36.7, "p": 0, "sh": 1, "out": 0}, {"d": "2025-03-26", "rd": "114-03-26", "ry": 114, "a": "德富路370號 | 5樓之2", "f": "5", "ar": 36.1, "tp": 900.0, "u": 24.9, "su": 24.9, "p": 1, "sh": 0, "out": 0}, {"d": "2025-03-31", "rd": "114-03-31", "ry": 114, "a": "德富路378號 | 5樓之2", "f": "5", "ar": 37.3, "tp": 969.0, "u": 26.0, "su": 26.0, "p": 1, "sh": 0, "out": 0}, {"d": "2025-04-19", "rd": "114-04-19", "ry": 114, "a": "德富路382號 | 10樓之1", "f": "10", "ar": 38.8, "tp": 1040.0, "u": 26.8, "su": 26.8, "p": 1, "sh": 0, "out": 0}, {"d": "2025-05-13", "rd": "114-05-13", "ry": 114, "a": "德富路372號 | 12,13樓之1 (▼近期最低單價)", "f": "12,13", "ar": 56.8, "tp": 1170.0, "u": 20.6, "su": 20.6, "p": 1, "sh": 0, "out": 0}, {"d": "2025-07-18", "rd": "114-07-18", "ry": 114, "a": "德富路386號 | 7樓之2", "f": "7", "ar": 49.2, "tp": 1200.0, "u": 24.0, "su": 24.4, "p": 1, "sh": 0, "out": 0}, {"d": "2026-04-02", "rd": "115-04-02", "ry": 115, "a": "德富路378號 | 9樓之2", "f": "9", "ar": 34.9, "tp": 782.0, "u": 22.4, "su": 22.4, "p": 0, "sh": 0, "out": 0}, {"d": "2026-06-27", "rd": "115-06-27", "ry": 115, "a": "德富路370號 | 6樓之2", "f": "6", "ar": 40.7, "tp": 950.0, "u": 22.8, "su": 23.3, "p": 1, "sh": 0, "out": 0}, {"d": "2026-09-08", "rd": "115-09-08", "ry": 115, "a": "德富路378號 | 4樓之1 (▼最新成交持續探底)", "f": "4", "ar": 37.3, "tp": 825.0, "u": 21.4, "su": 22.1, "p": 1, "sh": 0, "out": 0}];
 
-    let priceMode = 'u'; // 'u' = 591 parking-deducted, 'su' = CTOPMap/Yongyi blended
-    let filterMode = 'all'; // 'all', 'res', '8f'
+    const FORECAST_DATA = [
+      { ry: 116, wy: 2027, d: "2027-07-01", avg: 19.5, up: 20.6, low: 18.2, vol: 2, desc: "屋齡跨35年・限貸與23戶賣壓致跌破2字頭" },
+      { ry: 117, wy: 2028, d: "2028-07-01", avg: 17.8, up: 18.9, low: 16.5, vol: 2, desc: "屋齡滿37年・貸款年限緊縮・買盤萎縮下探" },
+      { ry: 118, wy: 2029, d: "2029-07-01", avg: 16.2, up: 17.5, low: 15.2, vol: 2, desc: "逼近38~40年老屋折舊・回歸長期支撐均價" }
+    ];
+
+    let priceMode = 'u';
+    let filterMode = 'all';
     let plottedPoints = [];
 
     const canvas = document.getElementById('pvCanvas');
@@ -62,7 +67,8 @@
     }
 
     const MIN_MS = parseDateMs('2012-03-01');
-    const MAX_MS = parseDateMs('2027-03-01');
+    const MAX_MS = parseDateMs('2030-03-01');
+    const SPLIT_MS = parseDateMs('2026-10-15');
 
     function setPriceMode(m) {
       priceMode = m;
@@ -88,8 +94,7 @@
 
     function drawStar(cx, cy, spikes, outerR, innerR, fillStyle, strokeStyle) {
       let rot = Math.PI / 2 * 3;
-      let x = cx;
-      let y = cy;
+      let x = cx, y = cy;
       const step = Math.PI / spikes;
       ctx.beginPath();
       ctx.moveTo(cx, cy - outerR);
@@ -127,7 +132,7 @@
 
       ctx.clearRect(0, 0, W, H);
 
-      const padL = 44, padR = 18, padT = 14, padB = 28;
+      const padL = 44, padR = 16, padT = 14, padB = 28;
       const priceTop = padT;
       const priceBottom = Math.floor(H * 0.68);
       const priceH = priceBottom - priceTop;
@@ -139,6 +144,19 @@
       const xToPx = (ms) => padL + ((ms - MIN_MS) / (MAX_MS - MIN_MS)) * (W - padL - padR);
       const pToPy = (p) => priceBottom - (p / 40.0) * priceH;
       const vToPy = (v) => volBottom - (v / 14.0) * volH;
+
+      // 0. Shaded 3-Year Forecast Zone on Right
+      const xSplit = xToPx(SPLIT_MS);
+      ctx.fillStyle = 'rgba(239, 68, 68, 0.09)';
+      ctx.fillRect(xSplit, priceTop, W - padR - xSplit, volBottom - priceTop);
+      ctx.save();
+      ctx.setLineDash([4, 3]);
+      ctx.strokeStyle = 'rgba(248, 113, 113, 0.6)';
+      ctx.beginPath();
+      ctx.moveTo(xSplit, priceTop);
+      ctx.lineTo(xSplit, volBottom);
+      ctx.stroke();
+      ctx.restore();
 
       // 1. Price Grid & Y-Axis Labels
       ctx.strokeStyle = gridColor;
@@ -155,29 +173,28 @@
         ctx.fillText(p + '萬', padL - 6, y + 4);
       });
 
-      // 2. Shaded Target Bidding Zone (16.48 ~ 17.70 萬/坪)
+      // 2. Shaded Long-Term Reasonable Support Zone (16.48 ~ 17.70 萬/坪)
       const yTopTarget = pToPy(17.70);
       const yBotTarget = pToPy(16.48);
       ctx.fillStyle = 'rgba(16, 185, 129, 0.18)';
       ctx.fillRect(padL, yTopTarget, W - padL - padR, yBotTarget - yTopTarget);
 
       // Reference Horizontal Lines
-      // Asking 23.63
       ctx.save();
       ctx.setLineDash([5, 4]);
       ctx.strokeStyle = '#EF4444';
-      ctx.lineWidth = 1.4;
+      ctx.lineWidth = 1.3;
       ctx.beginPath();
       ctx.moveTo(padL, pToPy(23.63));
       ctx.lineTo(W - padR, pToPy(23.63));
       ctx.stroke();
-      // Latest Lowest 21.4
+
       ctx.strokeStyle = '#F59E0B';
       ctx.beginPath();
       ctx.moveTo(padL, pToPy(21.4));
       ctx.lineTo(W - padR, pToPy(21.4));
       ctx.stroke();
-      // Seller Cost 15.9
+
       ctx.strokeStyle = '#38BDF8';
       ctx.beginPath();
       ctx.moveTo(padL, pToPy(15.9));
@@ -187,7 +204,7 @@
 
       // 3. X-Axis Years & Vertical Grid
       ctx.textAlign = 'center';
-      for (let yr = 2013; yr <= 2026; yr += 1) {
+      for (let yr = 2013; yr <= 2029; yr += 1) {
         const ms = parseDateMs(yr + '-01-01');
         const x = xToPx(ms);
         ctx.strokeStyle = gridColor;
@@ -195,22 +212,21 @@
         ctx.moveTo(x, priceTop);
         ctx.lineTo(x, volBottom);
         ctx.stroke();
-        if (yr % 2 === 1 || yr === 2026) {
-          ctx.fillStyle = textColor;
-          ctx.fillText((yr - 1911) + '年(' + String(yr).slice(2) + ')', x, H - 8);
+        if (yr % 2 === 1) {
+          ctx.fillStyle = yr >= 2027 ? '#F87171' : textColor;
+          ctx.fillText((yr - 1911) + (yr >= 2027 ? '預估' : '年'), x, H - 8);
         }
       }
 
       // 4. Compute Yearly Stats & Plot Volume Bars + Annual Average Line
       const yearlyAvgPts = [];
+      const barW = Math.max(9, ((W - padL - padR) / 19) * 0.58);
       for (let ry = 101; ry <= 115; ry++) {
         const yrAll = RAW_DATA.filter(r => r.ry === ry);
         const yrRes = yrAll.filter(r => r.sh === 0 && r.out === 0);
         const midMs = parseDateMs((ry + 1911) + '-07-01');
         const x = xToPx(midMs);
-        const barW = Math.max(10, ((W - padL - padR) / 16) * 0.62);
 
-        // Volume Bars
         const totCnt = yrAll.length;
         const resCnt = yrRes.length;
         if (totCnt > 0) {
@@ -235,22 +251,20 @@
         }
       }
 
-      // 5. Plot 5-Deal Moving Average Line (Pure Residential)
-      const resDeals = RAW_DATA.filter(r => r.sh === 0 && r.out === 0);
-      ctx.strokeStyle = '#34D399';
-      ctx.lineWidth = 1.8;
-      ctx.beginPath();
-      for (let i = 4; i < resDeals.length; i++) {
-        const sub = resDeals.slice(i - 4, i + 1);
-        const avg = sub.reduce((s, r) => s + r[priceMode], 0) / 5;
-        const px = xToPx(parseDateMs(resDeals[i].d));
-        const py = pToPy(avg);
-        if (i === 4) ctx.moveTo(px, py);
-        else ctx.lineTo(px, py);
-      }
-      ctx.stroke();
+      // Plot Forecast Volume Bars (116~118年)
+      FORECAST_DATA.forEach(f => {
+        const x = xToPx(parseDateMs(f.d));
+        const yV = vToPy(f.vol);
+        ctx.fillStyle = 'rgba(127, 29, 29, 0.65)';
+        ctx.fillRect(x - barW / 2, yV, barW, volBottom - yV);
+        ctx.strokeStyle = '#F87171';
+        ctx.strokeRect(x - barW / 2, yV, barW, volBottom - yV);
+        ctx.fillStyle = '#FCA5A5';
+        ctx.font = '12px sans-serif';
+        ctx.fillText('預估', x, yV - 3);
+      });
 
-      // 6. Plot Annual Average Line
+      // 5. Plot Annual Average Line
       ctx.strokeStyle = '#38BDF8';
       ctx.lineWidth = 2.6;
       ctx.beginPath();
@@ -267,8 +281,57 @@
         ctx.fill();
       });
 
-      // 7. Plot All Transaction Dots
+      // 6. Plot Next 3 Years (116~118年) Downward Forecast Cone & Line
+      const lastPt = yearlyAvgPts[yearlyAvgPts.length - 1];
+      const fcPts = FORECAST_DATA.map(f => ({
+        x: xToPx(parseDateMs(f.d)),
+        y: pToPy(f.avg),
+        yUp: pToPy(f.up),
+        yLow: pToPy(f.low),
+        f
+      }));
+
+      // Shaded forecast cone
+      ctx.fillStyle = 'rgba(239, 68, 68, 0.22)';
+      ctx.beginPath();
+      ctx.moveTo(lastPt.x, pToPy(22.8));
+      fcPts.forEach(p => ctx.lineTo(p.x, p.yUp));
+      for (let i = fcPts.length - 1; i >= 0; i--) ctx.lineTo(fcPts[i].x, fcPts[i].yLow);
+      ctx.lineTo(lastPt.x, pToPy(21.4));
+      ctx.closePath();
+      ctx.fill();
+
+      // Dashed downward forecast line
+      ctx.save();
+      ctx.setLineDash([6, 4]);
+      ctx.strokeStyle = '#F87171';
+      ctx.lineWidth = 2.8;
+      ctx.beginPath();
+      ctx.moveTo(lastPt.x, lastPt.y);
+      fcPts.forEach(p => ctx.lineTo(p.x, p.y));
+      ctx.stroke();
+      ctx.restore();
+
       plottedPoints = [];
+      fcPts.forEach(p => {
+        ctx.fillStyle = '#DC2626';
+        ctx.strokeStyle = '#FEF2F2';
+        ctx.lineWidth = 1.2;
+        ctx.beginPath();
+        ctx.arc(p.x, p.y, 5, 0, Math.PI * 2);
+        ctx.fill();
+        ctx.stroke();
+        ctx.fillStyle = '#FCA5A5';
+        ctx.font = 'bold 12px sans-serif';
+        ctx.fillText(p.f.avg + '萬', p.x, p.y - 8);
+
+        plottedPoints.push({
+          px: p.x, py: p.y, isForecast: true,
+          r: { rd: p.f.ry + '年 (預估)', a: p.f.desc, avg: p.f.avg, low: p.f.low, up: p.f.up }
+        });
+      });
+
+      // 7. Plot All Transaction Dots
       RAW_DATA.forEach(r => {
         if (filterMode === 'res' && (r.sh === 1 || r.out === 1)) return;
         if (filterMode === '8f' && r.f !== '8') return;
@@ -277,7 +340,7 @@
         const val = r[priceMode];
         const py = pToPy(val);
 
-        plottedPoints.push({ px, py, r, val });
+        plottedPoints.push({ px, py, r, val, isForecast: false });
 
         if (r.f === '8' && r.sh === 0) {
           drawStar(px, py, 5, 7.5, 3.5, '#FACC15', '#713F12');
@@ -324,23 +387,34 @@
 
       if (closest) {
         const r = closest.r;
-        const tag = r.f === '8' ? '<span class="text-yellow-300 font-bold">★ 8樓同層</span>' : (r.sh ? '<span class="text-purple-300">1F店面/特殊</span>' : (r.p ? '<span class="text-orange-300">含車位</span>' : '<span class="text-rose-300">無車位</span>'));
-        tooltip.innerHTML = `
-          <div class="font-bold text-sky-300 border-b border-slate-700 pb-1 mb-1 flex justify-between gap-2">
-            <span>民國 ${r.rd}</span>
-            ${tag}
-          </div>
-          <div class="text-slate-200 font-medium">${r.a}</div>
-          <div class="grid grid-cols-2 gap-x-3 gap-y-0.5 mt-1 text-slate-300">
-            <div>總價：<b class="text-white">${r.tp} 萬</b></div>
-            <div>建坪：<b class="text-white">${r.ar} 坪</b></div>
-            <div>591扣車：<b class="text-amber-300">${r.u} 萬/坪</b></div>
-            <div>含車原價：<b class="text-emerald-300">${r.su} 萬/坪</b></div>
-          </div>
-        `;
+        if (closest.isForecast) {
+          tooltip.innerHTML = `
+            <div class="font-bold text-rose-400 border-b border-slate-700 pb-1 mb-1 flex justify-between">
+              <span>民國 ${r.rd}</span>
+              <span class="text-rose-300">📉 下修預估</span>
+            </div>
+            <div class="text-slate-200 font-medium mb-1">${r.a}</div>
+            <div class="text-slate-300">預估均價：<b class="text-rose-300">${r.avg} 萬/坪</b> (區間 ${r.low}~${r.up} 萬)</div>
+          `;
+        } else {
+          const tag = r.f === '8' ? '<span class="text-yellow-300 font-bold">★ 8樓同層</span>' : (r.sh ? '<span class="text-purple-300">1F店面/特殊</span>' : (r.p ? '<span class="text-orange-300">含車位</span>' : '<span class="text-rose-300">無車位</span>'));
+          tooltip.innerHTML = `
+            <div class="font-bold text-sky-300 border-b border-slate-700 pb-1 mb-1 flex justify-between gap-2">
+              <span>民國 ${r.rd}</span>
+              ${tag}
+            </div>
+            <div class="text-slate-200 font-medium">${r.a}</div>
+            <div class="grid grid-cols-2 gap-x-3 gap-y-0.5 mt-1 text-slate-300">
+              <div>總價：<b class="text-white">${r.tp} 萬</b></div>
+              <div>建坪：<b class="text-white">${r.ar} 坪</b></div>
+              <div>拆算車位：<b class="text-amber-300">${r.u} 萬/坪</b></div>
+              <div>含車原價：<b class="text-emerald-300">${r.su} 萬/坪</b></div>
+            </div>
+          `;
+        }
         tooltip.classList.remove('hidden');
-        const leftPos = Math.min(rect.width - 235, Math.max(8, closest.px - 110));
-        const topPos = closest.py > 130 ? closest.py - 108 : closest.py + 14;
+        const leftPos = Math.min(rect.width - 240, Math.max(8, closest.px - 115));
+        const topPos = closest.py > 130 ? closest.py - 105 : closest.py + 14;
         tooltip.style.left = leftPos + 'px';
         tooltip.style.top = topPos + 'px';
       } else {
